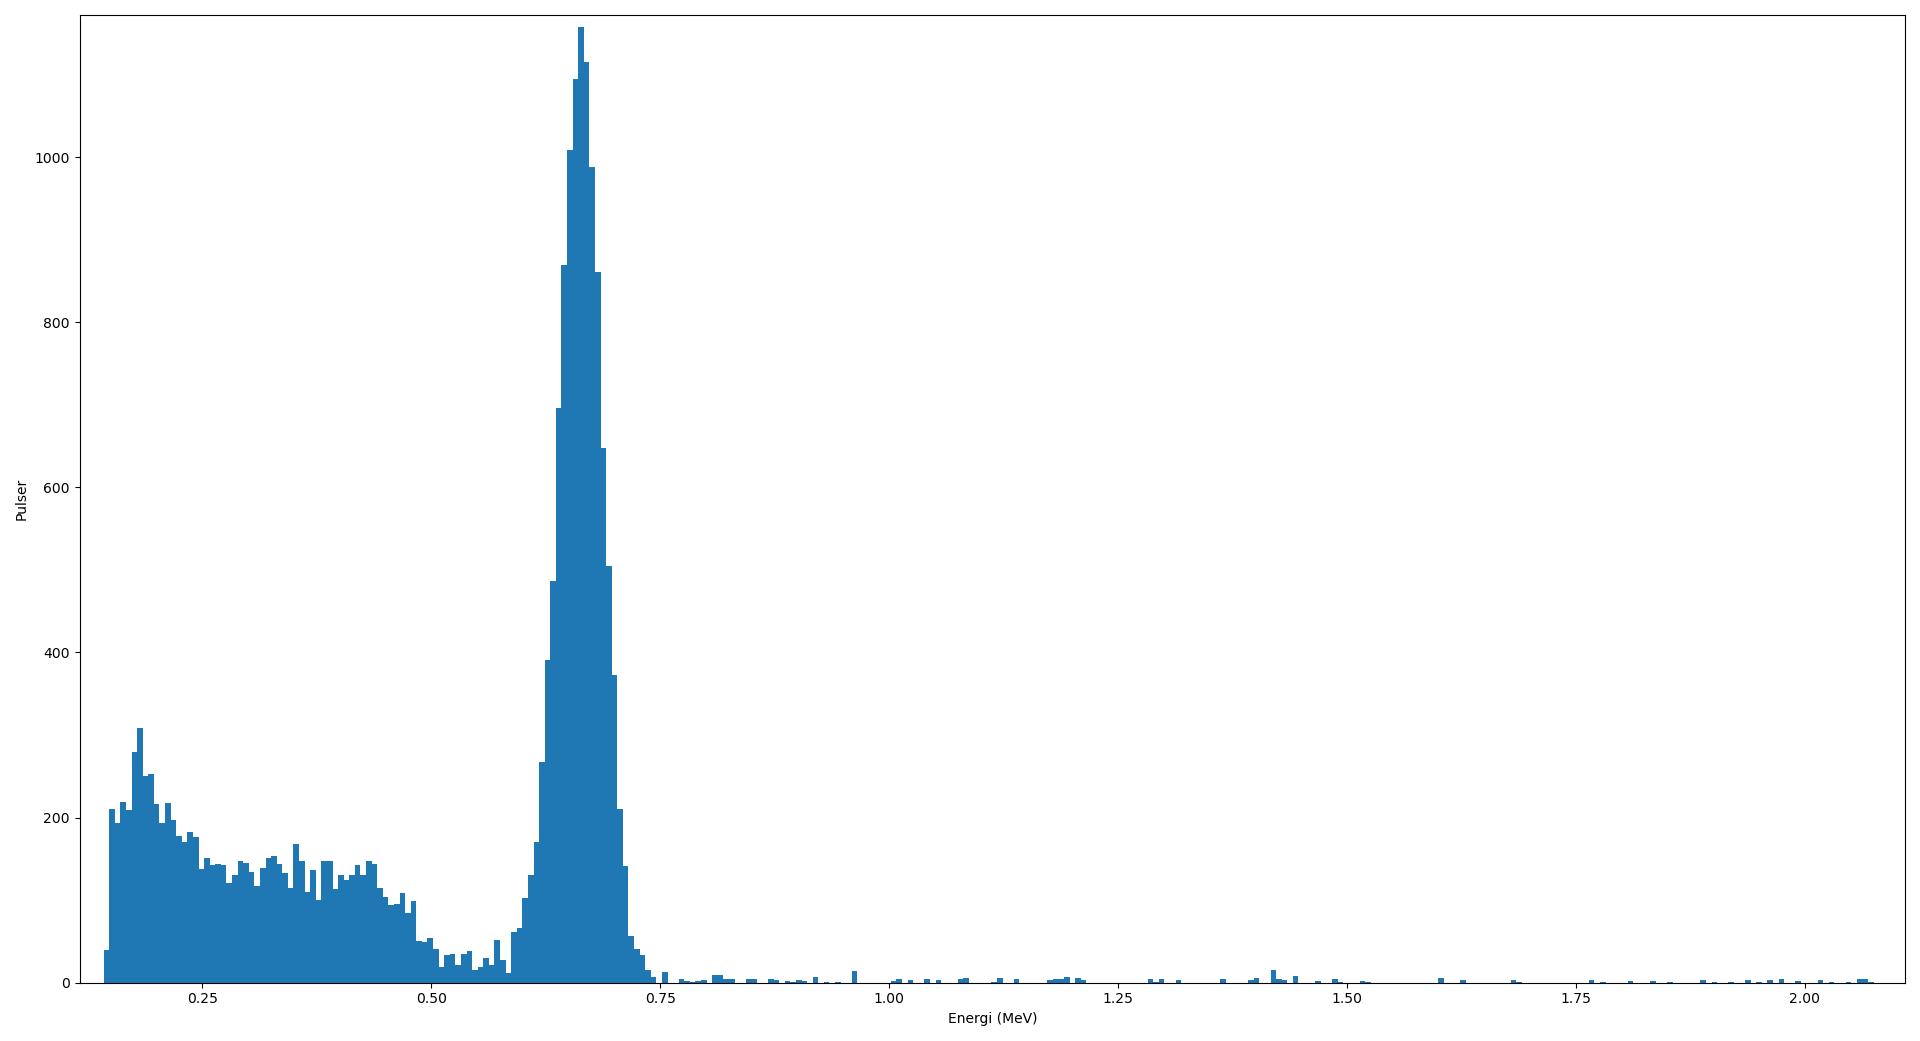
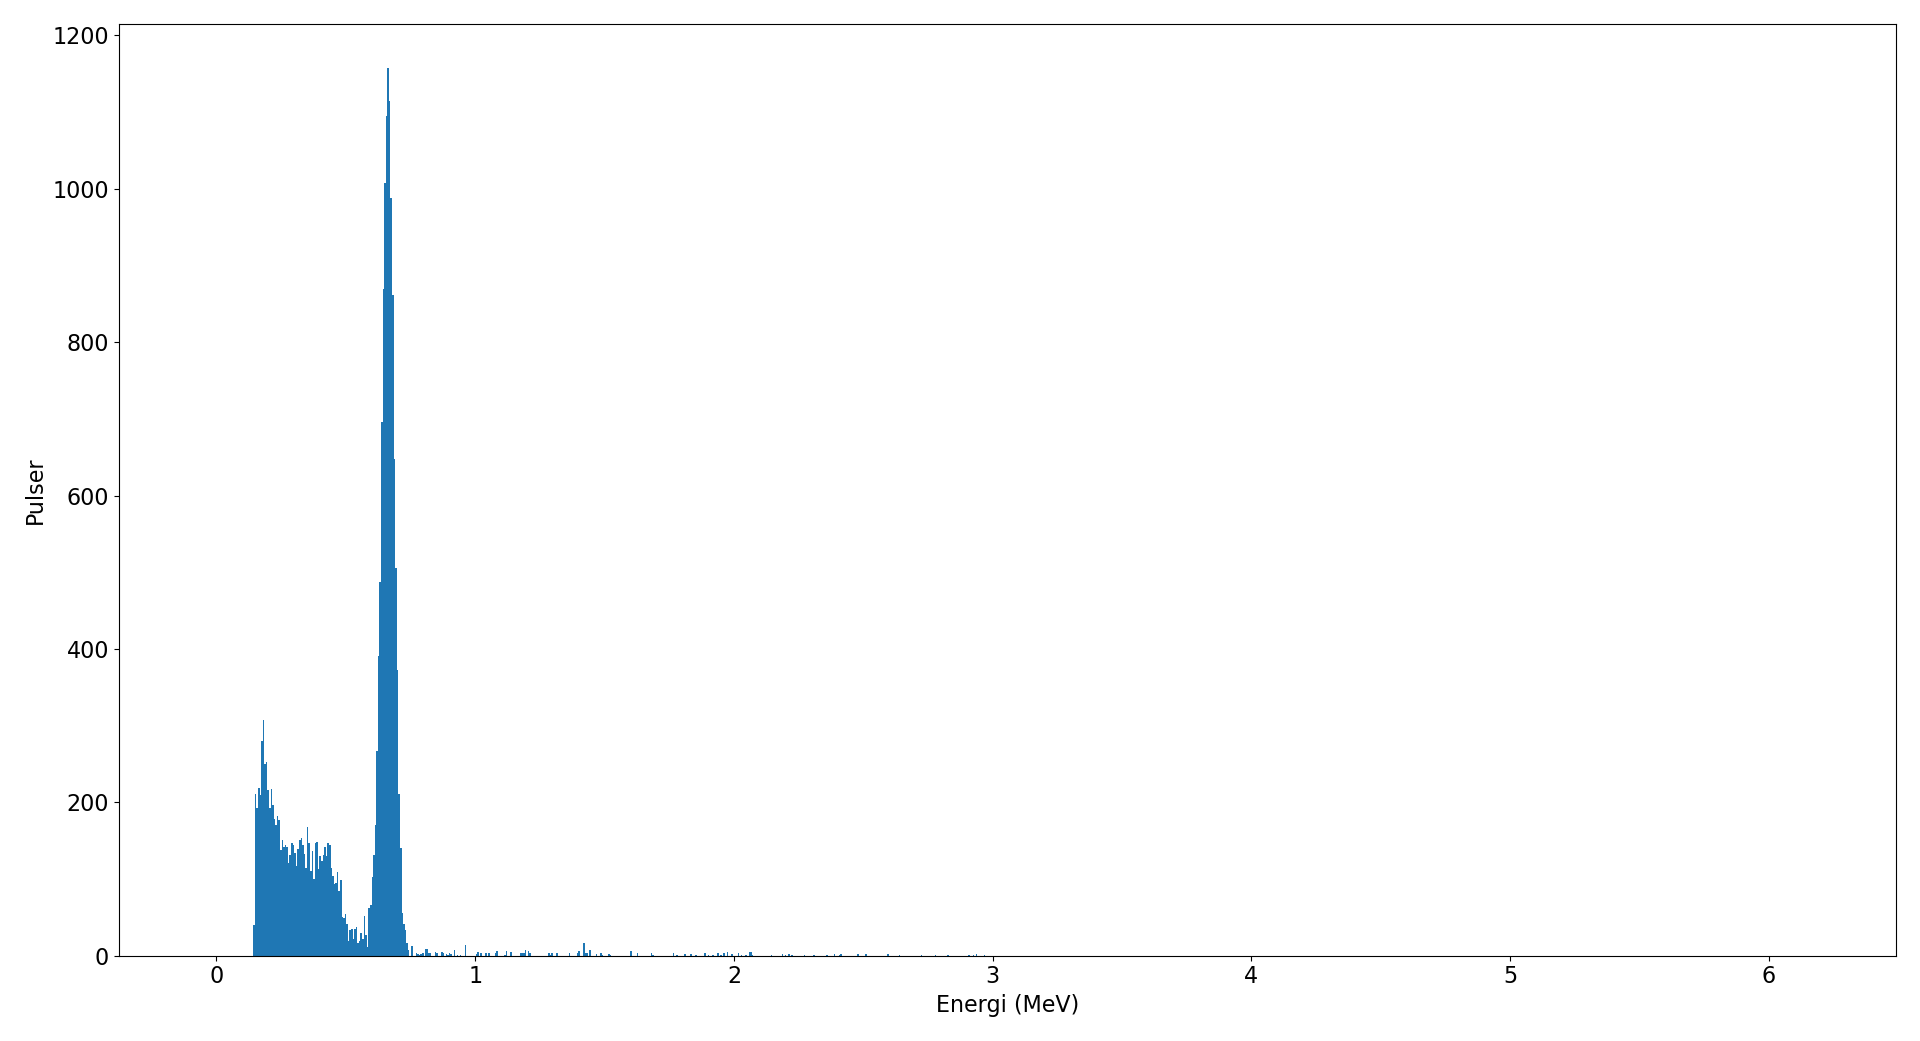
added more plots, cleaned up project structure

diff --git a/scripts/spectrum.py b/scripts/spectrum.py
@@ -1,23 +1,26 @@
+from bisect import bisect_left
 from itertools import dropwhile, takewhile
 from sys import argv
-from typing import Iterable, Optional
+from typing import Optional, Sequence
 
+import matplotlib as mpl
 import matplotlib.pyplot as plt
 import numpy as np
+from matplotlib.typing import ColorType
 from numpy.typing import ArrayLike
 
+mpl.rc("font", **{"size": 16})
 
-def parse(path: str, trim: bool = True) -> Iterable[tuple[int, int]]:
+
+def parse(path: str, trim: bool = True) -> Sequence[tuple[int, int]]:
     with open(path, "r") as f:
         lines = f.readlines()
 
     filtered = dropwhile(lambda l: not l[0].isdigit(), lines)
     pairs = (l.split() for l in filtered)
-    entries = ((int(x), int(y)) for x, y in pairs)
+    entries = tuple((int(x), int(y)) for x, y in pairs)
 
     if trim:
-        entries = tuple(entries)
-
         start = next((i for i, x in enumerate(reversed(entries)) if x != 0), None)
         if start is None:
             return []
@@ -30,37 +33,88 @@ def parse(path: str, trim: bool = True) -> Iterable[tuple[int, int]]:
 
 
 def plot(
-    bins: ArrayLike,
-    counts: ArrayLike,
+    data: Sequence[tuple[int, int]],
     coeff: float = 1,
     offset: float = 0,
     title: Optional[str] = None,
+    centroids: Sequence[float] = (),
 ):
+    bins, counts = zip(*data)
+
     f = np.vectorize(lambda x: x * coeff + offset)
     plt.bar(f(bins), counts, width=coeff)
 
     plt.xlabel("Energi (MeV)")
     plt.ylabel("Pulser")
-    if title:
+    if title is not None:
         plt.title(title)
+
+    if centroids:
+        colors = plt.get_cmap("plasma")
+        colors = tuple(colors(i) for i in np.linspace(0.1, 0.7, len(centroids)))
+
+        for i, (label, centroid, std) in enumerate(centroids):
+            plt.axvline(
+                centroid,
+                label=f"{label} (cent. {centroid}, std. {std})",
+                color=colors[i],
+            )
+
+        plt.legend()
 
     plt.show()
 
 
 def main():
+    cesium = parse("../data/cesium.asc")
+    salt = parse("../data/salt.asc")
+    mushrooms = parse("../data/mushrooms.asc")
+
     # Windas doesn't export the proper values for the x-axis, but uses some
     # internal integer representation. These are the results of fitting
     # those values to the images using linear regression.
-    sets = (
-        ("../data/cesium.asc", 0.00174419784066, -8.6097261836e-7),
-        ("../data/salt.asc", 0.00609620691562, -0.0623730759475),
-        ("../data/mushrooms.asc", 0.00609756097561, -0.0621951219512),
+
+    plots = (
+        {
+            "data": cesium,
+            "coeff": 0.00174419784066,
+            "offset": -8.6097261836e-7,
+        },
+        {
+            "data": cesium,
+            "coeff": 0.00174419784066,
+            "offset": -8.6097261836e-7,
+            "centroids": (
+                ("K-toppen", 0.624, 0.00735),
+                ("L-toppen", 0.657, 0.00535),
+            ),
+        },
+        {
+            "data": salt,
+            "coeff": 0.00609620691562,
+            "offset": -0.0623730759475,
+        },
+        {
+            "data": salt,
+            "coeff": 0.00609620691562,
+            "offset": -0.0623730759475,
+            "centroids": (("K-40", 1.455, 0.0294),),
+        },
+        {
+            "data": mushrooms,
+            "coeff": 0.00609756097561,
+            "offset": -0.0621951219512,
+        },
+        {
+            "data": mushrooms,
+            "coeff": 0.00609756097561,
+            "offset": -0.0621951219512,
+            "centroids": (("Cs-137", 0.659, 0.0239),),
+        },
     )
 
-    for path, a, b in sets:
-        data = parse(path)
-        bins, counts = zip(*data)
-        plot(bins, counts, a, b)
+    for p in plots:
+        plot(**p)
 
 
 if __name__ == "__main__":

diff --git a/tex/results.tex b/tex/results.tex
@@ -1,1 +1,5 @@
 \section{Resultat}
+
+\subsection{Betastrålning från Cs-137}
+
+
